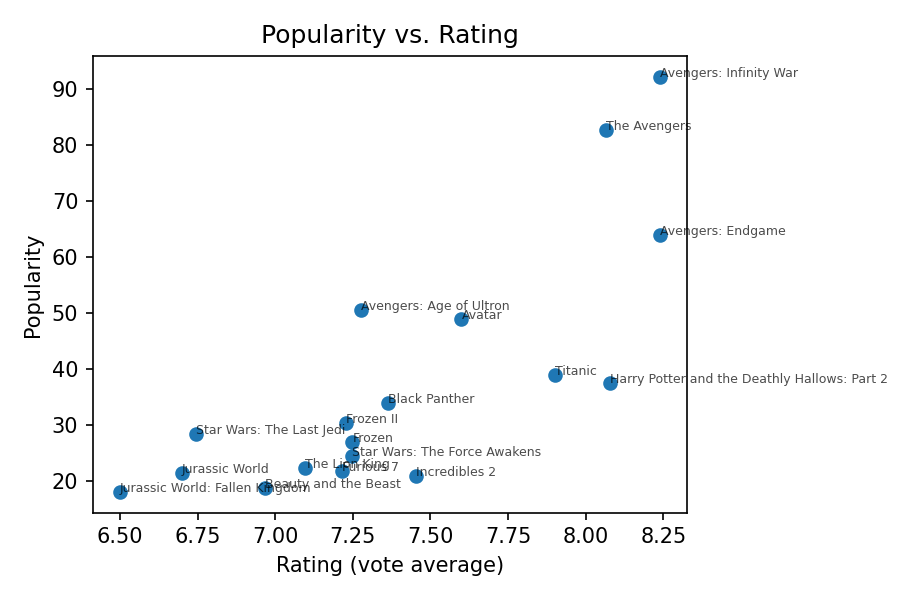
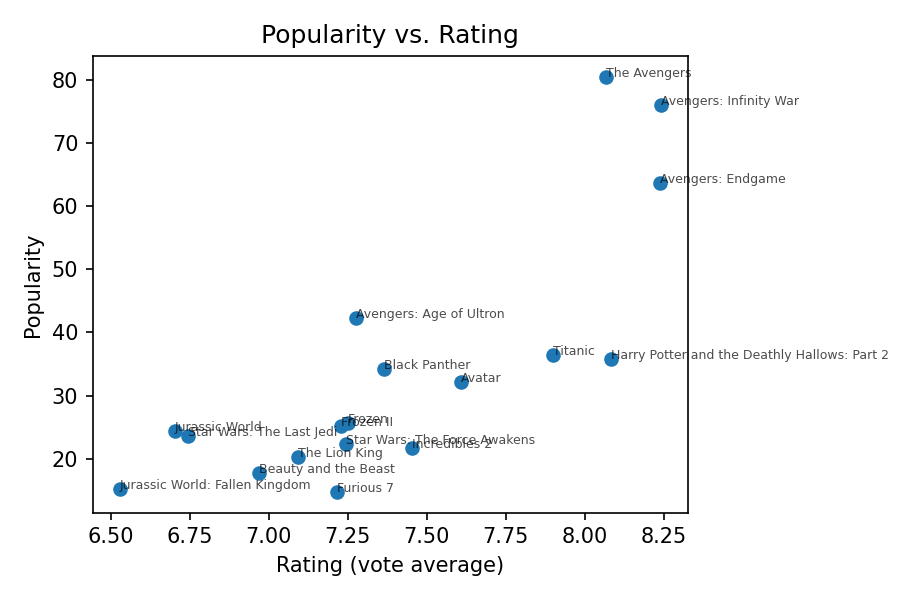
drop beat re-freezin

diff --git a/tests/test_api_kpis_visualization.py b/tests/test_api_kpis_visualization.py
@@ -386,7 +386,8 @@ def test_frozen_spark_baseline_outputs_regression(spark):
     belongs to the separate Pandas-vs-Spark parity test still to be added.
 
     Only deterministic cleaning and KPI outputs are compared - no live TMDb API
-    calls, and no volatile fields such as popularity or vote_count.
+    calls, and no vote-derived fields (popularity, vote_count, and any mean_rating
+    aggregate of vote_average), all of which move as real users keep voting.
     """
     fixture_path = FIXTURES_DIR / "frozen_dataset_spark_outputs.json"
     expected = json.loads(fixture_path.read_text(encoding="utf-8"))
@@ -419,8 +420,26 @@ def test_frozen_spark_baseline_outputs_regression(spark):
         .toPandas()
         .to_dict("records")
     )
-    franchise_summary = kpis.franchise_success(df).orderBy("total_revenue", ascending=False).limit(3).toPandas().to_dict("records")
-    director_summary = kpis.director_success(df).orderBy("total_revenue", ascending=False).limit(3).toPandas().to_dict("records")
+    # mean_rating is dropped from both aggregate baselines. It averages
+    # vote_average, which real TMDb users keep moving, so freezing it made this
+    # test fail on any refreshed raw pull - drift in the source data, not a
+    # regression in the pipeline. Revenue, budget and counts do not move that way.
+    franchise_summary = (
+        kpis.franchise_success(df)
+        .orderBy("total_revenue", ascending=False)
+        .drop("mean_rating")
+        .limit(3)
+        .toPandas()
+        .to_dict("records")
+    )
+    director_summary = (
+        kpis.director_success(df)
+        .orderBy("total_revenue", ascending=False)
+        .drop("mean_rating")
+        .limit(3)
+        .toPandas()
+        .to_dict("records")
+    )
 
     assert top_revenue == expected["top_revenue"], "Top revenue mismatch"
     assert top_profit == expected["top_profit"], "Top profit mismatch"

diff --git a/README.md b/README.md
@@ -108,7 +108,9 @@ Aggregations use `groupBy().agg()` with Spark's aggregate functions, with two de
 - **Visualization smoke tests** - all 5 chart functions run end to end against a temp directory and are asserted to write real PNG files.
 - **Frozen-output regression** - `test_frozen_spark_baseline_outputs_regression` replays the deterministic cleaning and KPI path over the locked 18-movie raw pull and compares it to `tests/fixtures/frozen_dataset_spark_outputs.json`.
 
-That fixture is a **Spark regression baseline, not a Pandas-to-Spark parity check**: every expected value was captured from an earlier run of this same Spark pipeline. It proves results have not drifted; it does not independently prove they are correct. Volatile fields (`popularity`, `vote_count`) are excluded so the baseline stays stable. A genuine cross-engine parity test, built from independently validated pandas outputs, is a separate piece of work not yet in this repo.
+That fixture is a **Spark regression baseline, not a Pandas-to-Spark parity check**: every expected value was captured from an earlier run of this same Spark pipeline. It proves results have not drifted; it does not independently prove they are correct. A genuine cross-engine parity test, built from independently validated pandas outputs, is a separate piece of work not yet in this repo.
+
+The baseline deliberately holds only fields that cannot move on their own. Vote-derived values are all excluded - `popularity` and `vote_count` directly, and `mean_rating` because it averages `vote_average`, which real TMDb users keep changing. Freezing a rating aggregate made the test fail on every refreshed pull, reporting drift in the source data as though it were a regression in the pipeline. What remains - titles, counts, budgets, revenues, profit and ROI - survived a live re-fetch unchanged.
 
 Because `data/raw/` is gitignored, that one regression test depends on the raw pull existing locally and skips with an explanatory message where it doesn't - including CI, which therefore runs the other 32. Current verified local result with the raw data present: **33 passed**.
 
